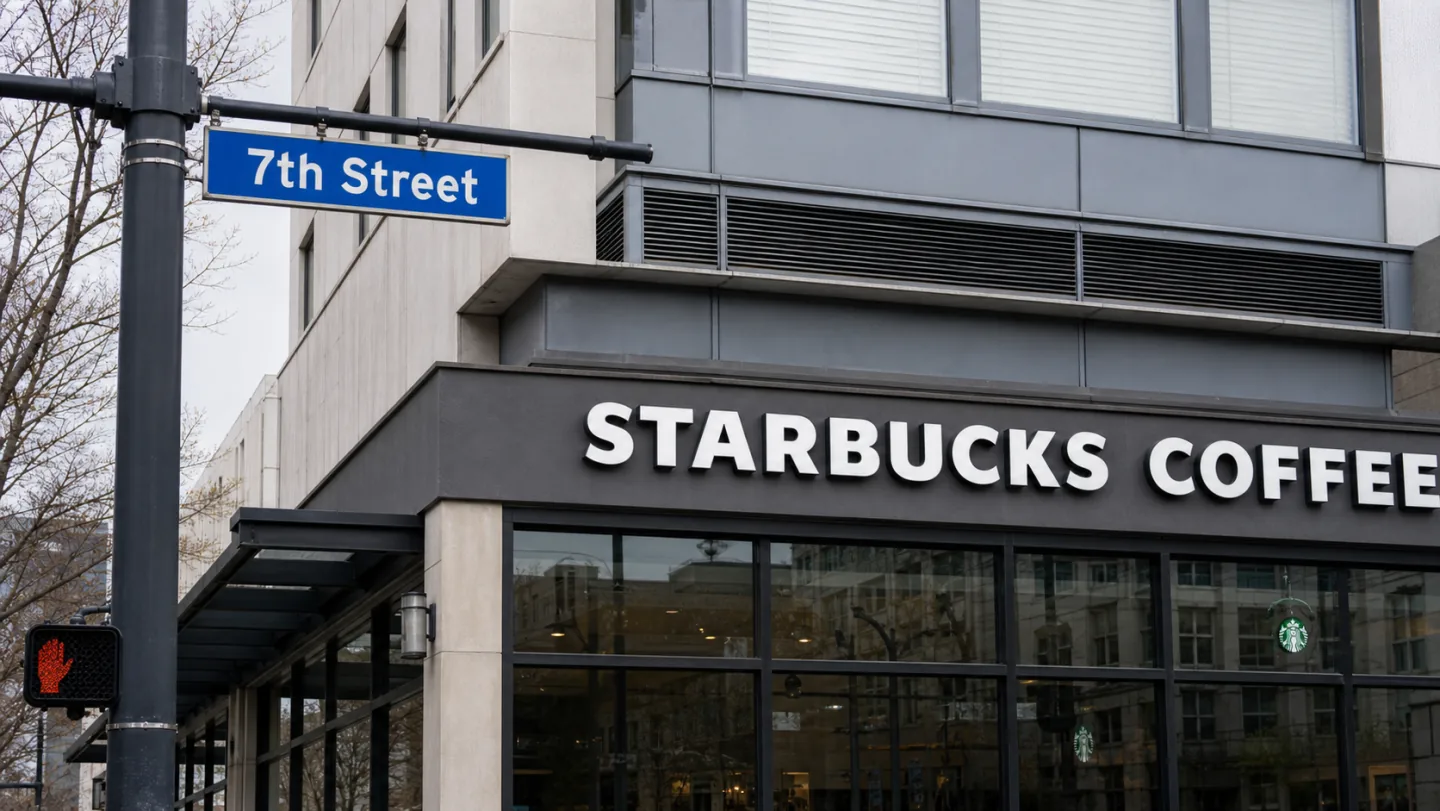
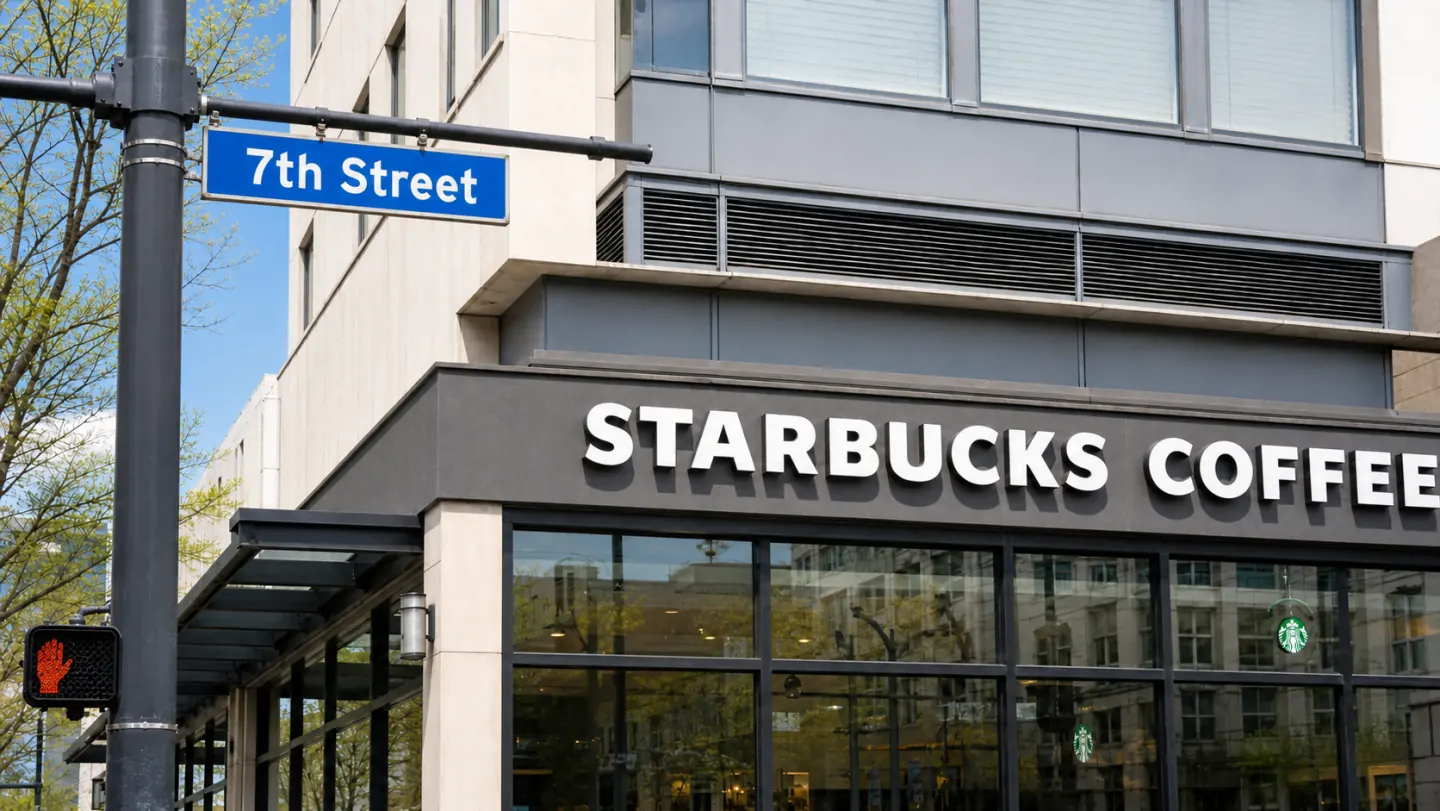
brighten capture demo and polish details

diff --git a/website/DESIGN.md b/website/DESIGN.md
@@ -17,7 +17,7 @@
 
 - Direction: cool editorial utility.
 - Defining trait: large sections alternate between centered product promise and left-aligned evidence.
-- Signature move: the street-corner crop, where one blue selection bridges a street sign and storefront before resolving to one natural clipboard phrase.
+- Signature move: the sunny street-corner crop, where one crosshair-led blue selection bridges a street sign and storefront before resolving to one natural clipboard phrase.
 - Forbidden: eyebrow text, leading-zero section numbers, pointless dot or pill indicators, sepia, dark theme, accent-left-border cards, glass, gradients, tiny decorative metadata, or diffuse shadows.
 
 ## Typography
@@ -84,7 +84,7 @@
 
 - Mode: one purpose-generated photorealistic street image with a lightweight SVG interface overlay.
 - The source image is locally served as a 1440px WebP and lazy-loaded below the primary hero actions; it adds no client JavaScript or remote request.
-- The visible scene places the `7th Street` sign above the `STARBUCKS COFFEE` fascia so the selection can capture `7th Street` and `STARBUCKS` while clearly leaving `COFFEE` outside its right edge.
+- The visible sunny-day scene places the `7th Street` sign above the `STARBUCKS COFFEE` fascia so the selection can capture `7th Street` and `STARBUCKS` while clearly leaving `COFFEE` outside its right edge.
 - The SVG overlay uses a lightly tinted rectangle and an outlined crosshair, echoing a native screen-region drag rather than adding ornamental animation.
 - Avoid unrelated decorative imagery, glossy device frames, gradients, or text overlays that compete with the source text being demonstrated.
 
@@ -109,5 +109,6 @@ The source of truth is the global token block in `src/styles/global.css`; the pa
 
 ## Changelog
 
+- 2026-08-17: warmed the demonstration photo, strengthened the capture crosshair, added the GitHub mark, removed the fixed shortcut from public copy, and replaced the illustrative QR pattern with a working `copylasso.com` code.
 - 2026-08-17: replaced the synthetic street scene with a purpose-generated photograph and rebuilt the capture loop as a crosshair-led region drag that deliberately excludes `COFFEE`.
 - 2026-08-17: committed the selected landing-page direction from the ten-option lab, including the street-corner proof, centered hero actions, three-step workflow, continuous feature field, and simple close.
